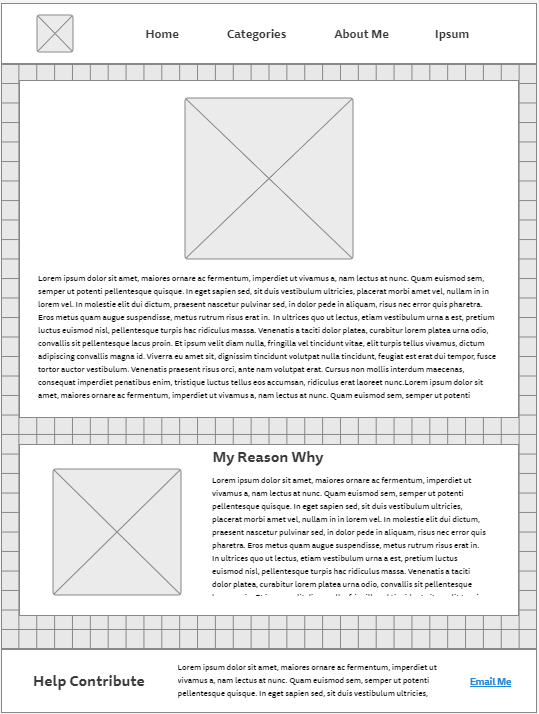
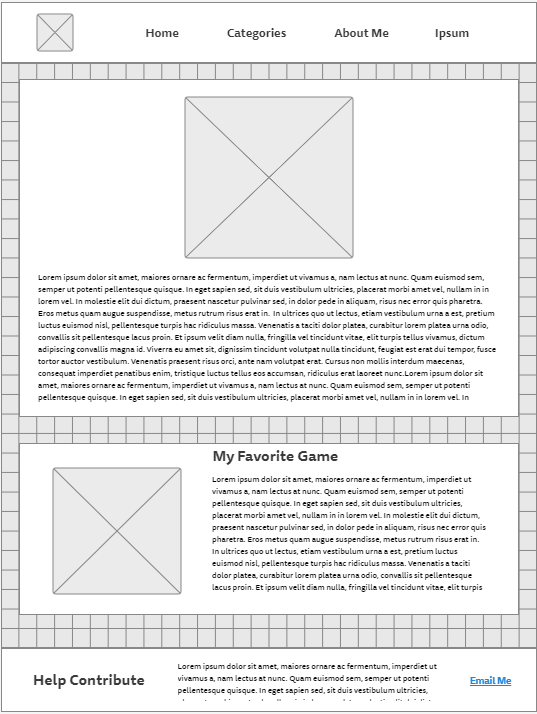
Added html for bgr pages

diff --git a/bgr/categories.html b/bgr/categories.html
@@ -1,0 +1,120 @@
+<!DOCTYPE html>
+<html lang="en">
+<head>
+    <meta charset="UTF-8">
+    <meta http-equiv="X-UA-Compatible" content="IE=edge">
+    <meta name="viewport" content="width=device-width, initial-scale=1.0">
+    <title>Board Game Reviewers | Categories</title>
+    <link rel="stylesheet" href="styles/style.css">
+</head>
+<body>
+    <div id="content">
+        <header>
+            <a href="index.html" id="logo_link">
+                <img class="logo" src="images/bgrlogo.png" alt="Logo image" />
+            </a>
+            <nav>
+                <a href="index.html">Home</a>
+                <a href="categories.html">Categories</a>
+                <a href="about-me.html">About Me</a>
+            </nav>
+        </header>
+        <main class="categories-grid">
+            <section>
+                <div>
+                    <h2>Family/Casual</h2>
+                    <img id="family-category-categories" src="images/family_games.jpg" alt="Family playing games">
+                </div>
+                <ul>
+                    <li>Happy Little Dinosaurs</li>
+                    <li>Codenames</li>
+                    <li>Exploding Kittens</li>
+                    <li>Five Crowns</li>
+                    <li>Guillotine</li>
+                    <li>Karma</li>
+                    <li>Moods</li>
+                    <li>Scattergories</li>
+                </ul>
+                <ul>
+                    <li>Can you escape disaster? And your friends?</li>
+                    <li>Compete to identify secret words, but beware of the assassin</li>
+                    <li>Laugh while you force your fellow players to explode</li>
+                    <li>Compete to score low but the game is not over till the kings go wild</li>
+                    <li>Rack up points by sending nobles to the guillotine</li>
+                    <li>Everyone wins, except the one who karma catches up to</li>
+                    <li>Act out random phrases in various moods</li>
+                    <li>Can you answer all the categories starting with a specific letter?</li>
+                </ul>
+            </section>
+            <section>
+                <div>
+                    <h2>Gamer</h2>
+                    <img id="gamer-category" src="images/game_example.jpg" alt="Gamer game example">
+                </div>
+                <ul>
+                    <li>Talisman</li>
+                    <li>The Reckoners</li>
+                    <li>Villainous</li>
+                    <li>Root</li>
+                    <li>Betrayal at House on the Hill</li>
+                    <li>Pandemic</li>
+                </ul>
+                <ul>
+                    <li>Defeat monsters and each other in a race to power</li>
+                    <li>Work together to defeat those with superpowers</li>
+                    <li>Villians time to shine and win the day</li>
+                    <li>Nature versus industry. Who will take over the forest?</li>
+                    <li>Explore an abandoned house but can you survive the haunting?</li>
+                    <li>Work together to stem the tide of a world wide pandemic</li>
+                </ul>
+            </section>
+            <section>
+                <div>
+                    <h2>Puzzle</h2>
+                    <img id="puzzle-category" src="images/puzzle_games.jpg" alt="Puzzle game">
+                </div>
+                <ul>
+                    <li>Cat Stax</li>
+                    <li>Cat Crimes</li>
+                    <li>Jenga</li>
+                    <li>Blockus</li>
+                </ul>
+                <ul>
+                    <li>Can you fit the given cats within the grid?</li>
+                    <li>Logic thinking game but with cats</li>
+                    <li>Compete to pull blocks without knocking the tower down</li>
+                    <li>Can you claim the most territory with tetris like blocks?</li>
+                </ul>
+            </section>
+            <section>
+                <h2>Many More to Come</h2>
+                <p>
+                    The great thing about board/card games is that there are so many 
+                    different genres and categories out there. As the traffic/interaction 
+                    of the site grows this section could grow to be bigger and bigger. 
+                    Of course, we still want to focus on quality over quantity.
+                </p>
+            </section>
+        </main>
+        <footer>
+            <div>
+                <h4>&copy; 2022 - Jeremy Troff</h4>
+                <h4>
+                    <a href="site-plan.html">Site Plan</a>
+                </h4>
+            </div>
+            <div>
+                <h4>Help Contribute</h4>
+                <p>
+                    Have an awesome game you want to add to our recommendations?
+                    Shoot me an email with the games name and why you would recommend
+                    it and your game could be featured here.
+                </p>
+            </div>
+            <h4>
+                <a href = "mailto: jtroff77@gmail.com">Email Me</a>
+            </h4>
+        </footer>
+    </div>
+</body>
+</html>

diff --git a/bgr/index.html b/bgr/index.html
@@ -1,0 +1,82 @@
+<!DOCTYPE html>
+<html lang="en">
+<head>
+    <meta charset="UTF-8">
+    <meta http-equiv="X-UA-Compatible" content="IE=edge">
+    <meta name="viewport" content="width=device-width, initial-scale=1.0">
+    <title>Board Game Reviewers | Home</title>
+    <link rel="stylesheet" href="styles/style.css">
+</head>
+<body>
+    <div id="content">
+        <header>
+            <a href="index.html" id="logo_link">
+                <img class="logo" src="images/bgrlogo.png" alt="Logo image" />
+            </a>
+            <nav>
+                <a href="index.html">Home</a>
+                <a href="categories.html">Categories</a>
+                <a href="about-me.html">About Me</a>
+            </nav>
+        </header>
+        <div id="hero">
+            <div id="hero-box">
+                <img id="hero-img" src="images/bgr_hero.jpg" alt="Dozen of board games">
+            </div>
+            <section id="hero-msg">
+                <h1 class="home-title">Gateway To Recommendations For You</h1>
+            </section>
+        </div>
+        <main class="home-grid">
+            <section class="categories">
+                <h2>Categories</h2>
+                <div>
+                    <img id="family-category-home" src="images/family_games.jpg" alt="Family playing games">
+                    <a href="categories.html">Family/Casual</a>
+                </div>
+                <div>
+                    <img id="gamer-category" src="images/game_example.jpg" alt="Gamer game example">
+                    <a href="categories.html">Gamers</a>
+                </div>
+                <div>
+                    <img id="puzzle-category" src="images/puzzle_games.jpg" alt="Puzzle game">
+                    <a href="categories.html">Puzzle</a>
+                </div>
+            </section>
+            <section class="game-of-month">
+                <h2>Game of the Month</h2>
+                <img id="game-of-the-month" src="images/favorite_game.jpg" alt="Game of the Month: Talisman">
+                <p>
+                    Talisman is a RPG board game where you take control of one of a variety of different
+                    characters and attempt to beat everyone else to the crown of power. To progress
+                    you will have to overcome events, visit shops, and take down a variety of creatures
+                    both mortal and not so mortal. As you progress your strength in both mind and body
+                    will increase until you are strong enough to challenge the trials of the inner circle.
+                    Games can take anywhere from 2-10 hours depending on who are you playing with, so it
+                    is not for the faint of heart. Do you have what it takes to become the greatest in
+                    all the land?
+                </p>
+            </section>
+        </main>
+        <footer>
+            <div>
+                <h4>&copy; 2022 - Jeremy Troff</h4>
+                <h4>
+                    <a href="site-plan.html">Site Plan</a>
+                </h4>
+            </div>
+            <div>
+                <h4>Help Contribute</h4>
+                <p>
+                    Have an awesome game you want to add to our recommendations?
+                    Shoot me an email with the games name and why you would recommend
+                    it and your game could be featured here.
+                </p>
+            </div>
+            <h4>
+                <a href = "mailto: jtroff77@gmail.com">Email Me</a>
+            </h4>
+        </footer>
+    </div>
+</body>
+</html>

diff --git a/bgr/about-me.html b/bgr/about-me.html
@@ -1,0 +1,75 @@
+<!DOCTYPE html>
+<html lang="en">
+<head>
+    <meta charset="UTF-8">
+    <meta http-equiv="X-UA-Compatible" content="IE=edge">
+    <meta name="viewport" content="width=device-width, initial-scale=1.0">
+    <title>Board Game Reviewers | About Me</title>
+    <link rel="stylesheet" href="styles/style.css">
+</head>
+<body>
+    <div id="content">
+        <header>
+            <a href="index.html" id="logo_link">
+                <img class="logo" src="images/bgrlogo.png" alt="Logo image" />
+            </a>
+            <nav>
+                <a href="index.html">Home</a>
+                <a href="categories.html">Categories</a>
+                <a href="about-me.html">About Me</a>
+            </nav>
+        </header>
+        <main class="about-me-grid">
+            <section>
+                <img id="about-me-pic" src="images/about_me.jpg" alt="Me and my Wife">
+                <p>
+                    I love board games. I have been playing board games since as far back
+                    as I can remember. After getting married my wife and I decided that
+                    we needed to start our own collection of games since we enjoyed playing
+                    together so much and what started out as getting a game here or there has
+                    grown to over 150 games in our collection. We do not plan on stopping
+                    any time soon. I have also loved being able to recommend games to everyone
+                    that will take the time to listen to me. Playing games is a lot of fun but
+                    there is a great satisfaction when you hear that other people liked your
+                    game recommendation so much they purchased the game themselves. Both of
+                    these loves is what sprouted the idea of extending my reach out to all of
+                    you. I sincerely hope you can find a recommendation that you will enjoy
+                    for many years to come!
+                </p>
+            </section>
+            <section>
+                <h2>My Favorite Game</h2>
+                <img id="game-of-the-month" src="images/favorite_game.jpg" alt="Game of the Month: Talisman">
+                <p>
+                    I enjoy games of all kinds, but my favorite game is Talisman. 
+                    This game is not for everyone though since it can take 2-10 hours 
+                    to complete a game, but I have always really enjoyed it. Fair warning 
+                    to anyone that wants to try it though, it is a little hard to find 
+                    a group and time to play such a long game. I have all fourteen 
+                    expansions that go with the game but you do not need all the expansions
+                    to have a great time.
+                </p>
+            </section>
+        </main>
+        <footer>
+            <div>
+                <h4>&copy; 2022 - Jeremy Troff</h4>
+                <h4>
+                    <a href="site-plan.html">Site Plan</a>
+                </h4>
+            </div>
+            <div>
+                <h4>Help Contribute</h4>
+                <p>
+                    Have an awesome game you want to add to our recommendations?
+                    Shoot me an email with the games name and why you would recommend
+                    it and your game could be featured here.
+                </p>
+            </div>
+            <h4>
+                <a href = "mailto: jtroff77@gmail.com">Email Me</a>
+            </h4>
+        </footer>
+    </div>
+</body>
+</html>

diff --git a/index.html b/index.html
@@ -4,7 +4,7 @@
   <a href="wwr/index.html">Dry Oar Rafting Website</a>
   <a href="wwr/site-plan-rafting.html">Dry Oar Rafting Siteplan</a>
   <a href="positioning.html">Positioning Activity</a>
-  <a href="#">Personal Website</a>
-  <a href="#">Personal Siteplan</a>
+  <a href="bgr/index.html">Board Game Reviewers Website</a>
+  <a href="bgr/site-plan.html">Board Game Reviewers Siteplan</a>
 </nav>
 <p>Jeremy Troff - WDD130</p>
